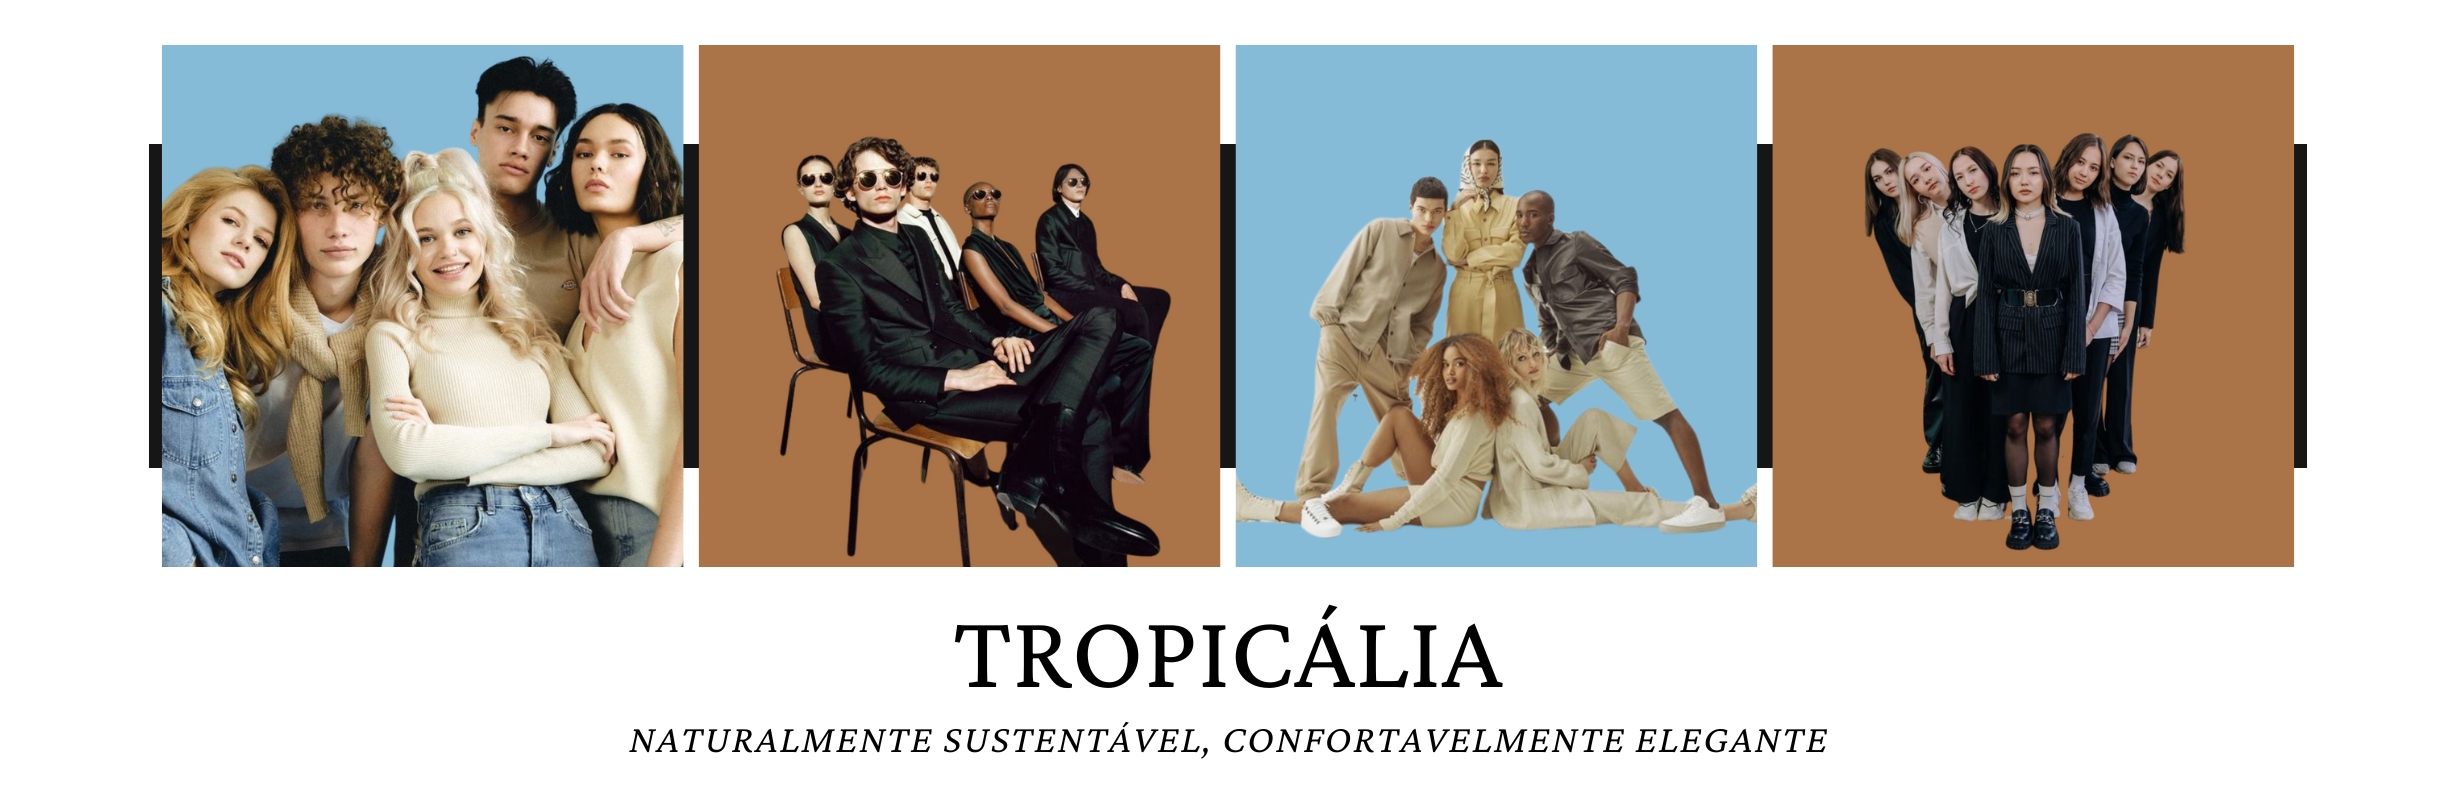
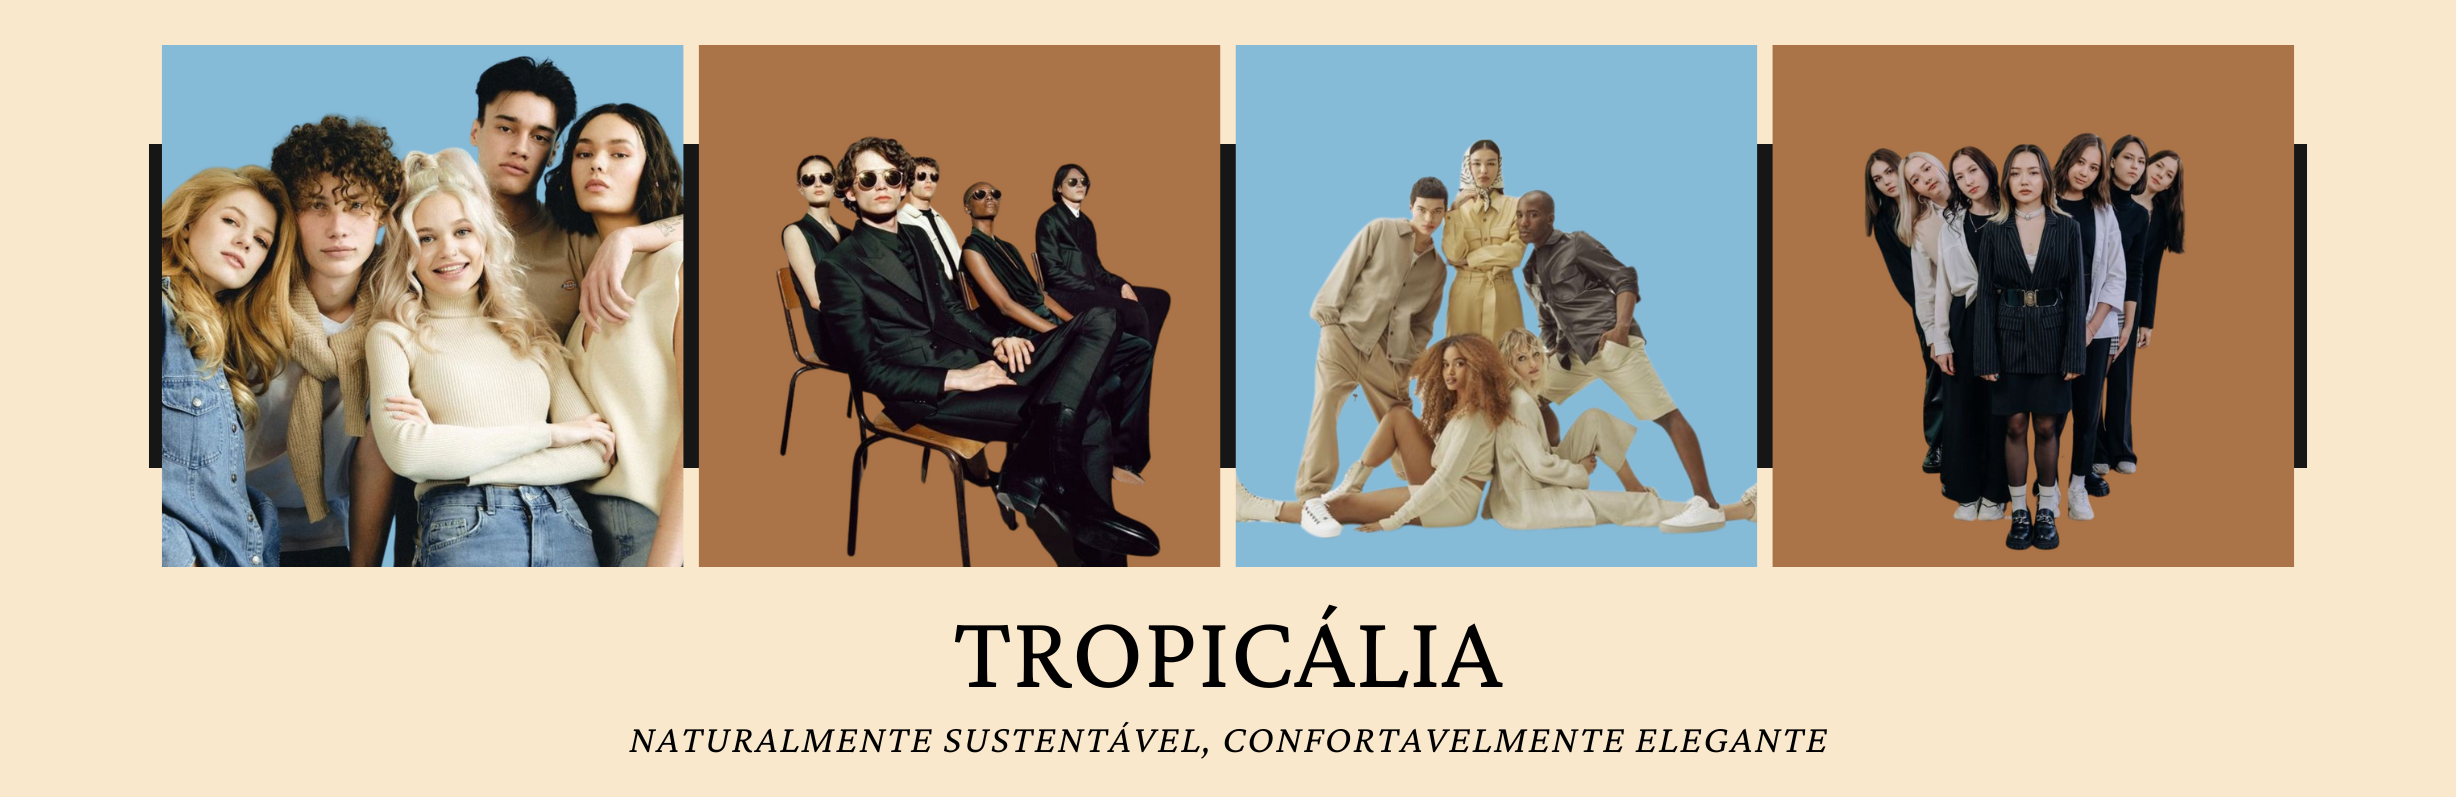
alterações no navbar: fixei no topo e fiz responsividade do card. troquei cores do body, fiz as imagens e coloquei na pasta. falta atualizar

diff --git a/CSS/style.css b/CSS/style.css
@@ -11,7 +11,7 @@ h2 {
 }
 
 body{
-  background-color: antiquewhite;
+  background-color: #f9e8cc;
 }
 
 section {
@@ -30,6 +30,10 @@ p {
 .navbar-nav {
     margin-left: auto;
     margin-right: 10vh;
+}
+
+#carouselExampleSlidesOnly {
+  margin-top: 10vh;
 }
 
 
@@ -482,7 +486,7 @@ p {
     align-items: center;
     justify-content: center;
    background-image: url('../IMG/produto1.png');
-   background-size: cover;
+    background-size: cover;
     margin-bottom: 30px;
   }
   
@@ -557,7 +561,7 @@ p {
     flex-direction: column;
     align-items: center;
     justify-content: center;
-    background-image: url('../IMG/vale1.webp');
+    background-image: url('../IMG/produto1.png');
    background-size: cover;
     margin-bottom: 30px;
   }
@@ -635,7 +639,7 @@ p {
     flex-direction: column;
     align-items: center;
     justify-content: center;
-    background-image: url('../IMG/vale1.webp');
+    background-image: url('../IMG/produto3.png');
    background-size: cover;
     margin-bottom: 30px;
   }
@@ -715,7 +719,7 @@ p {
     flex-direction: column;
     align-items: center;
     justify-content: center;
-    background-image: url('../IMG/vale1.webp');
+    background-image: url('../IMG/produto4.png');
    background-size: cover;
     margin-bottom: 30px;
   }
@@ -793,7 +797,7 @@ p {
     flex-direction: column;
     align-items: center;
     justify-content: center;
-    background-image: url('../IMG/vale1.webp');
+    background-image: url('../IMG/produto5.png');
    background-size: cover;
     margin-bottom: 30px;
   }

diff --git a/index.html b/index.html
@@ -10,7 +10,7 @@
 <body>
 
     <header>
-        <nav class="navbar navbar-expand-lg" style="background-color: #f9e8cc;">
+        <nav class="navbar navbar-expand-lg fixed-top" style="background-color: #f9e8cc;">
             <div class="container-fluid">
                 <a class="navbar-brand" href="#"><img src="./IMG/logo.png" alt="Logo"></a>
                 <button class="navbar-toggler" type="button" data-bs-toggle="collapse" data-bs-target="#navbarTogglerDemo03" aria-controls="navbarTogglerDemo03" aria-expanded="false" aria-label="Toggle navigation">
